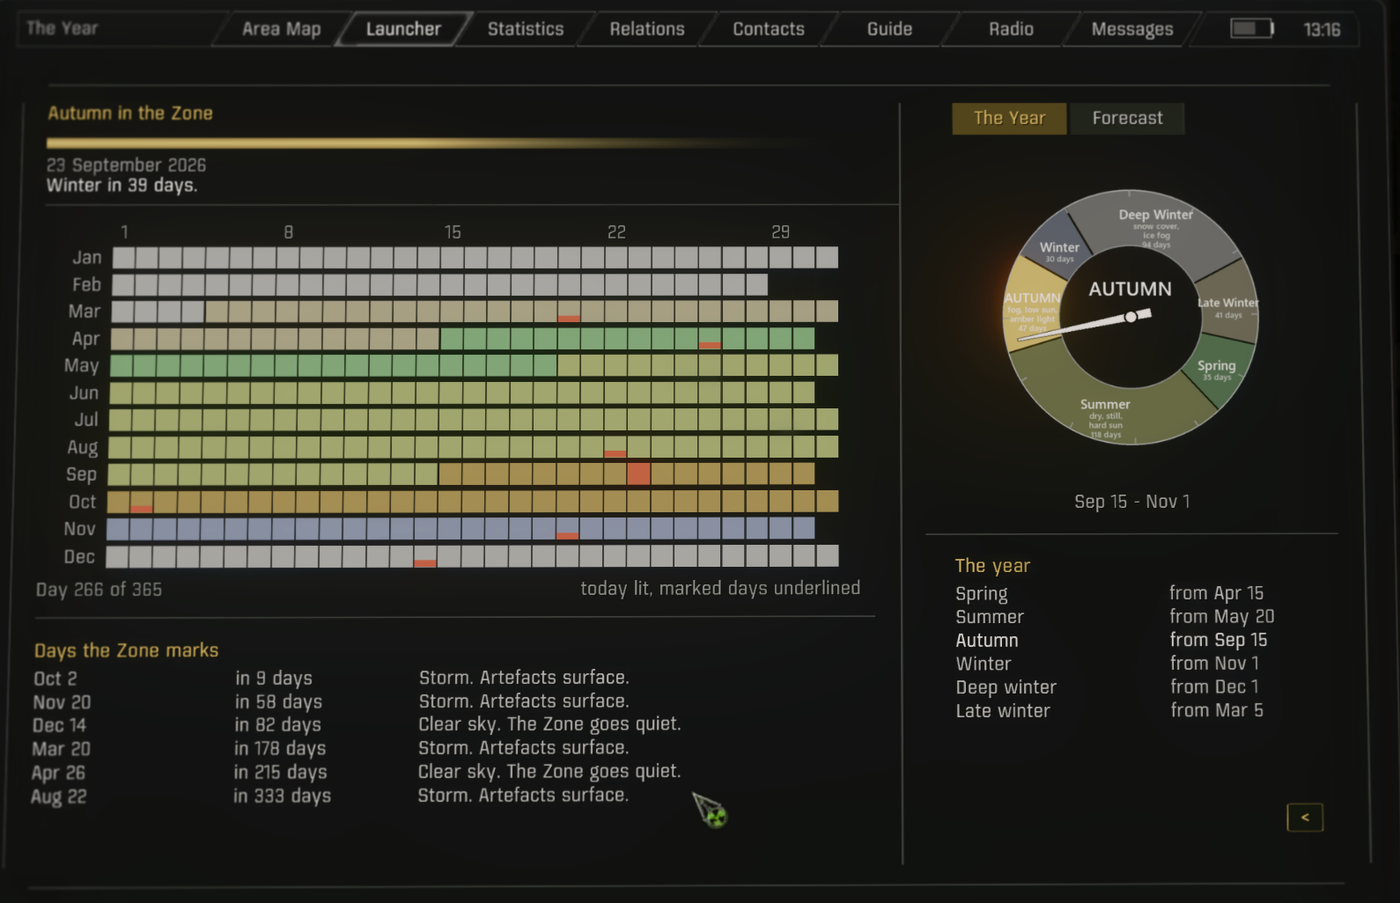
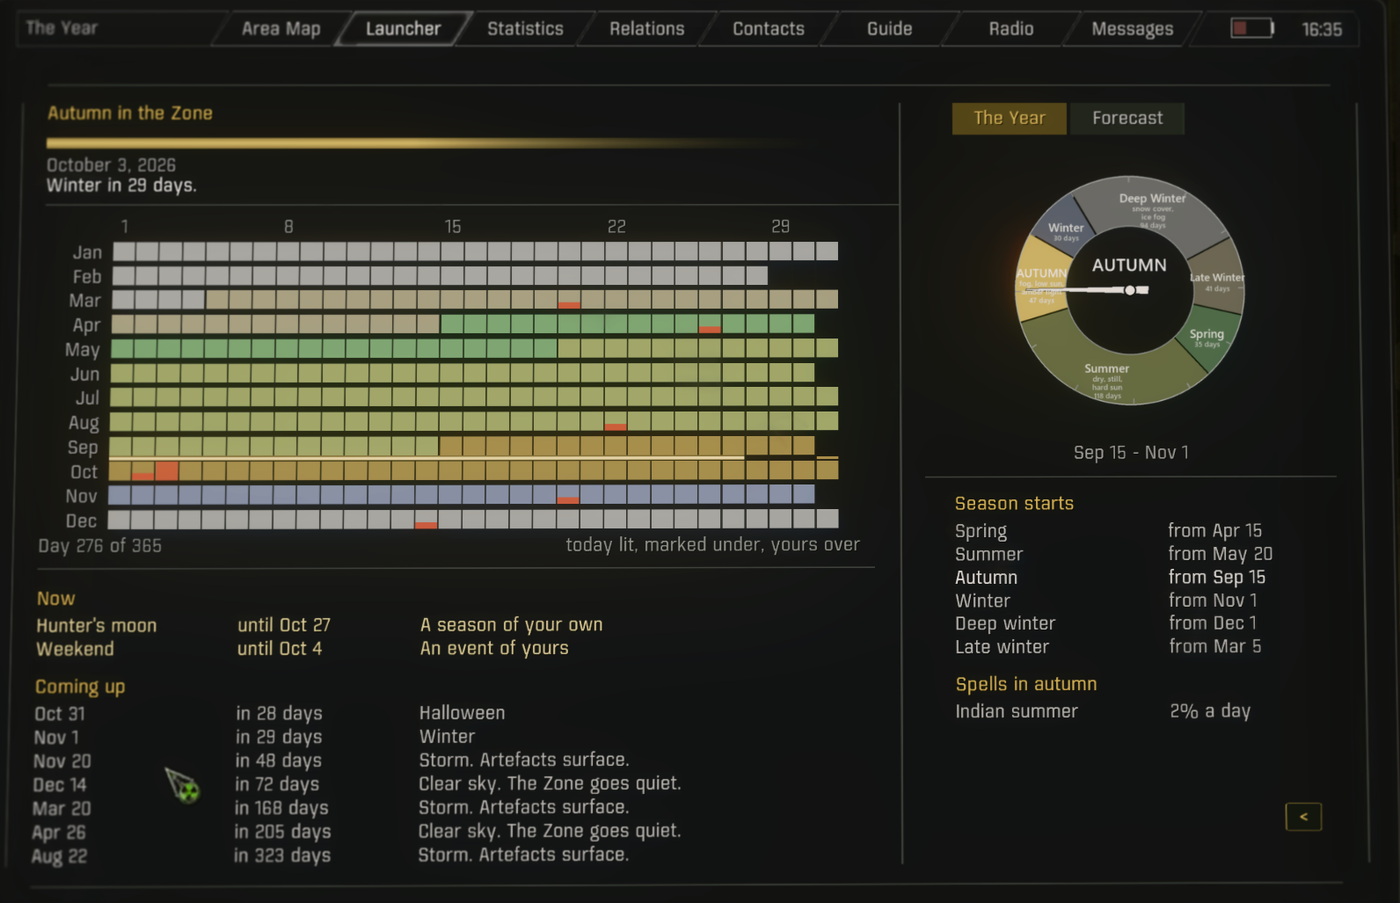
Docs: retake The Year's screenshot
The page as it stands since the rework: a season of your own and a
weekend on and glowing, Halloween coming up, the line over the season's
days on the grid, and a spell's chance beside the dial.

diff --git a/docs/INTERFACE.md b/docs/INTERFACE.md
@@ -165,7 +165,7 @@ standalone version that works without MAC, see the note at the top of `sotz_pda.
 
 ## The Year — the calendar page
 
-![The Year: the grid with today lit, and the days the Zone marks](images/pda-the-year.png)
+![The Year: the season and why, the grid with a season of your own drawn over its days, what is on now and what is coming](images/pda-the-year.png)
 
 Dates and names. Anything running on the game clock lives on
 [Forecast](#forecast--the-pda-page) instead.
